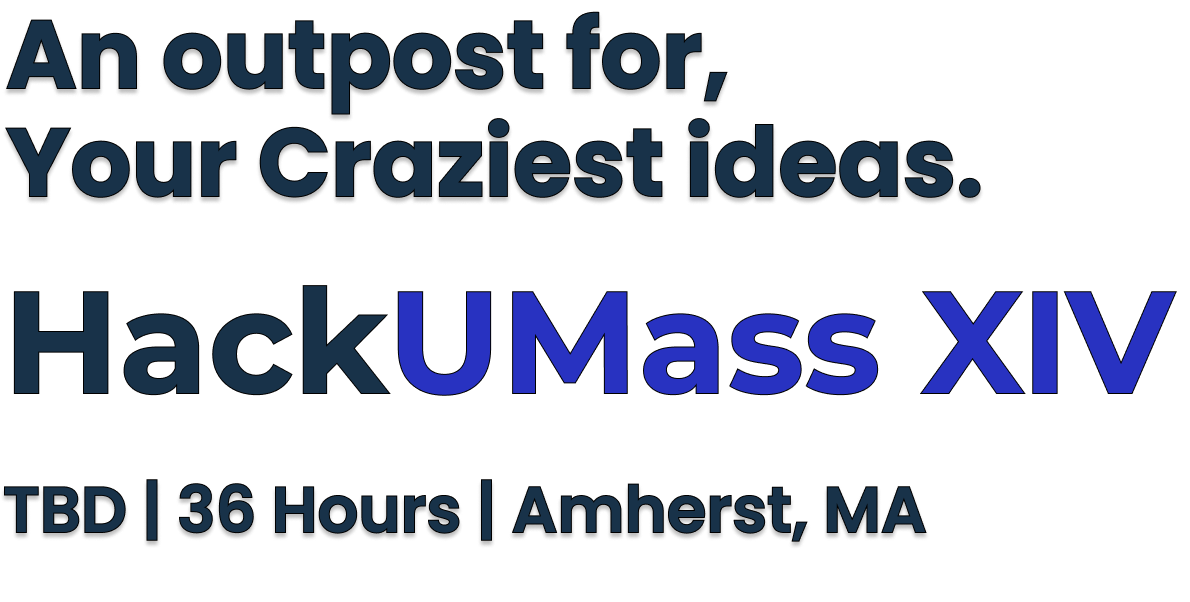
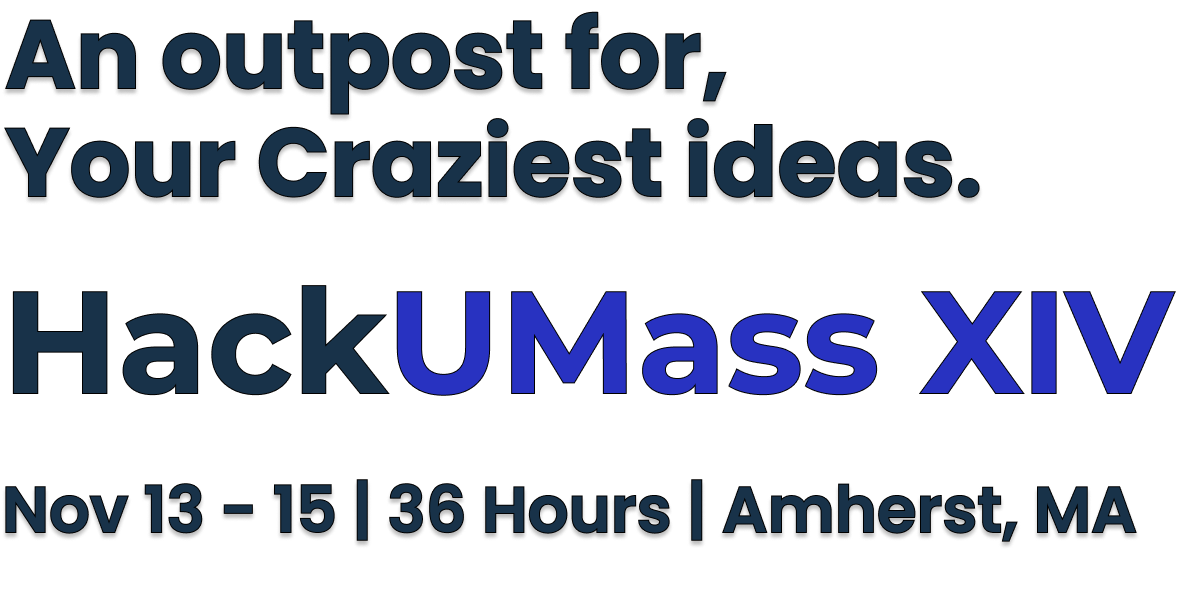
Merge pull request #63 from fuseumass/Shreyas/HackUMassXIV
Updating website as placeholder for HackUMas XIV

Pull request: Updating website as placeholder for HackUMas XIV

diff --git a/components/Landing/Faq.js b/components/Landing/Faq.js
@@ -8,8 +8,8 @@ export default function Faq() {
 
   const [faqs, _] = useState([
     ["What is a hackathon?", " A hackathon is a competitive sprint where people come together to collaborate and build innovative software and hardware projects to win prizes. However, students also have the option to participate in other activities instead of submitting a project."],
-    ["Where is HackUMass XIII?", "HackUMass XIII is an in-person hackathon on the University of Massachusetts Amherst campus, with the main venue located at the Integrative Learning Center (650 N Pleasant St, Amherst, MA 01003)."],
-    ["Who can attend?", "HackUMass XIII is open to ALL college students, including graduate students, regardless of major!"],
+    ["Where is HackUMass XIV?", "HackUMass XIV is an in-person hackathon on the University of Massachusetts Amherst campus, with the main venue located at the Integrative Learning Center (650 N Pleasant St, Amherst, MA 01003)."],
+    ["Who can attend?", "HackUMass XIV is open to ALL college students, including graduate students, regardless of major!"],
     ["Will my travel be reimbursed?", "If you apply by the early application deadline, you have the opportunity to apply for travel reimbursement. Early applications are now closed, but we invite you to attend HackUMass if you are able to support your own travel to Amherst, MA."],
     ["Do I have to work on a project?", "No, participants are welcome to attend workshops, the club/sponsor fair, and network with sponsors or other students without submitting a final project! For final project submissions, the project does NOT need to be fully finished."],
     ["Do I need experience?", "We welcome students of all experience levels to participate in HackUMass! Participants will find a variety of workshops ranging from beginner-friendly to advanced, mentors, and plenty of resources to help everyone learn something new."],

diff --git a/components/Landing/Hero.js b/components/Landing/Hero.js
@@ -27,13 +27,13 @@ export default function HeroSection() {
           <motion.button
             className="LandingHeroMainAppbutt"
             onClick={() =>
-              window.open("https://forms.gle/CLryypCVaaHaPdyv9", "_blank")
+              window.open("https://forms.gle/p32x8oFDE8oxgXx26", "_blank")
             }
             initial={{ x: -300, opacity: 0 }} // Start position from left
             animate={{ x: 0, opacity: 1 }} // End position
             transition={{ duration: 1 }} // Animation duration
           >
-            <p style={{ margin: "auto" }}>Apply Now!</p>
+            <p style={{ margin: "auto" }}>Pre-Register Now!</p>
             <Fragment>
               <FontAwesomeIcon
                 className="LandingHeroMainAppRightButton"

diff --git a/app/layout.js b/app/layout.js
@@ -4,7 +4,7 @@ import "./globals.css";
 const inter = Inter({ subsets: ["latin"] });
 
 export const metadata = {
-  title: "HackUMass XIII - An outpost for your craziest ideas",
+  title: "HackUMass XIV - An outpost for your craziest ideas",
   description: "HackUMass is an outpost for your craziest ideas. November 8 - 10, 2024 at UMass Amherst.",
   metadataBase: new URL('http://localhost:3000'),
   // openGraph: {

diff --git a/components/Landing/Footer.js b/components/Landing/Footer.js
@@ -127,7 +127,7 @@ export default function Footer() {
           <p>
             <Link smooth="true" href="/">
               {" "}
-              HackUMass XIII
+              HackUMass XIV
             </Link>
           </p>
           <p>

diff --git a/components/Landing/Schedule.js b/components/Landing/Schedule.js
@@ -95,7 +95,7 @@ export default function Schedule() {
   return (
     <div className="Schedule" id="schedule">
       <div className="LandingAboutHeader">
-        <h1 className="heading">Schedule</h1>
+        <h1 className="heading">Schedule (XIII)</h1>
       </div>
 
       <div className="calendar-container">

diff --git a/components/Navbar/Navbar.js b/components/Navbar/Navbar.js
@@ -182,7 +182,7 @@ function NavigationBarLand(user) {
         }}
       >
         <img
-          src="https://s3.amazonaws.com/logged-assets/trust-badge/2026/mlh-trust-badge-2026-white.svg"
+          src="/MLHTrustBadge.svg"
           alt="Major League Hacking 2026 Hackathon Season"
           style={{ width: "100%" }}
         />